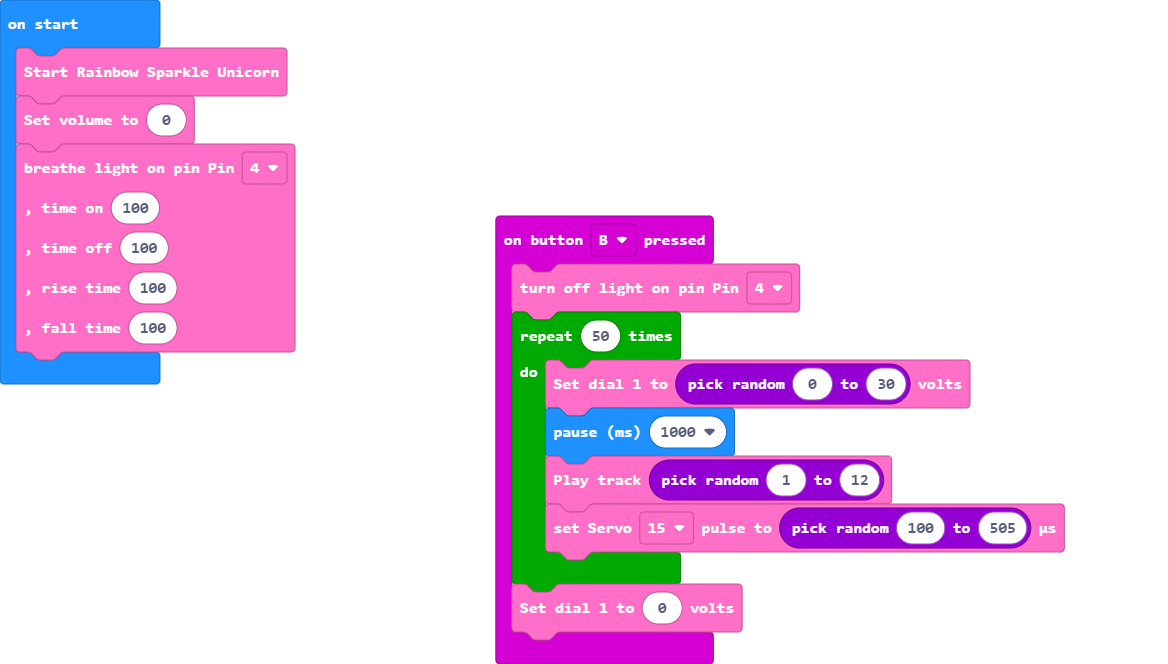
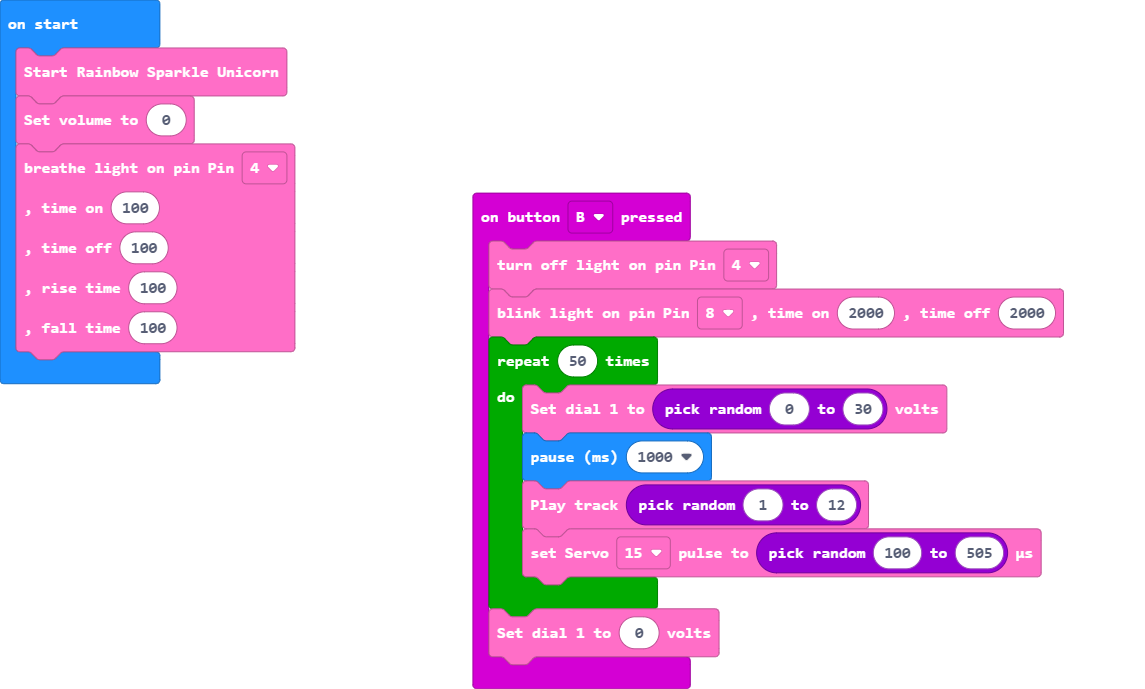
Update main.blocks, main.ts, light.ts

Changed region(s): [[0.3974, 0.2711, 0.9476, 1.0], [0.0, 0.0, 0.2751, 0.6024]]

diff --git a/light.ts b/light.ts
@@ -22,7 +22,51 @@ namespace RainbowSparkleUnicorn {
     //% block="turn on light on pin $pin"
     export function turnOn(pin: Blinkable) {
       sendMessage("Y3," + pin + ",1")
-    }           
+    }          
+    
+    //% subcategory="Light" 
+    //% block="turn off all lights"
+    export function turnAllOff() {
+        sendMessage("Y3,0,0")        
+        sendMessage("Y3,1,0")
+        sendMessage("Y3,2,0")
+        sendMessage("Y3,3,0")
+        sendMessage("Y3,4,0")
+        sendMessage("Y3,5,0")
+        sendMessage("Y3,6,0")
+        sendMessage("Y3,7,0")
+        sendMessage("Y3,8,0")
+        sendMessage("Y3,9,0")
+        sendMessage("Y3,10,0")
+        sendMessage("Y3,11,0")                
+        sendMessage("Y3,12,0")
+        sendMessage("Y3,13,0")    
+        sendMessage("Y3,14,0")
+        sendMessage("Y3,15,0")            
+    } 
+
+    //% subcategory="Expert" 
+    //% block="turn off all lights"
+    export function turnAllOn() {
+        sendMessage("Y3,0,1")        
+        sendMessage("Y3,1,1")
+        sendMessage("Y3,2,1")
+        sendMessage("Y3,3,1")
+        sendMessage("Y3,4,1")
+        sendMessage("Y3,5,1")
+        sendMessage("Y3,6,1")
+        sendMessage("Y3,7,1")
+        sendMessage("Y3,8,1")
+        sendMessage("Y3,9,1")
+        sendMessage("Y3,10,1")
+        sendMessage("Y3,11,1")                
+        sendMessage("Y3,12,1")
+        sendMessage("Y3,13,1")    
+        sendMessage("Y3,14,1")
+        sendMessage("Y3,15,1")            
+    } 
+
+
 }
 
 enum Breathable {

diff --git a/main.ts b/main.ts
@@ -1,5 +1,6 @@
 input.onButtonPressed(Button.B, function () {
     RainbowSparkleUnicorn.turnOff(Blinkable.Blinkable4)
+    RainbowSparkleUnicorn.blink(Blinkable.Blinkable8, 2000, 2000)
     for (let index = 0; index < 50; index++) {
         RainbowSparkleUnicorn.dial1(randint(0, 30))
         basic.pause(1000)
